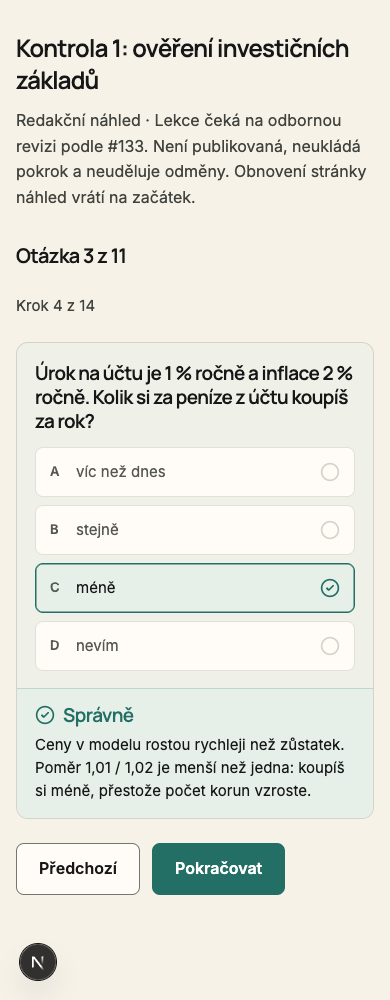
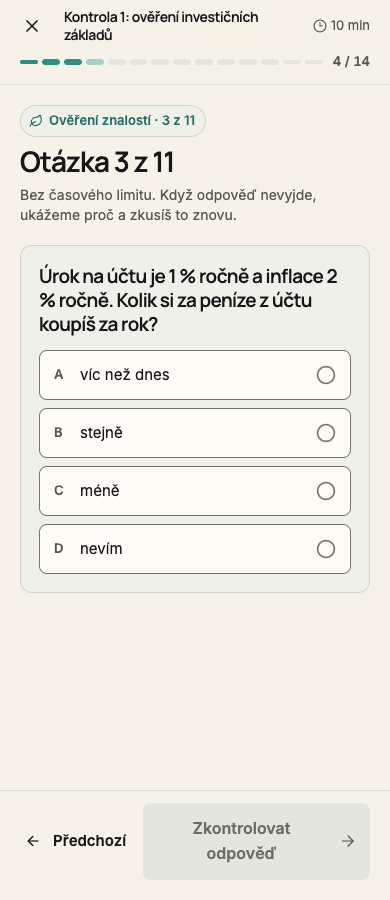
feat: publish foundations checkpoint without first-answer measurement (#164)

diff --git a/src/features/lessons/foundations/checkpoint.ts b/src/features/lessons/foundations/checkpoint.ts
@@ -34,7 +34,7 @@ export const bigThreeQuestions = [
   },
 ] satisfies LessonBlock[];
 
-/** Draft until #163, measurement capture (#130) and editorial review are ready. No public progress/rewards. */
+/** Published without first-answer measurement by founder decision on 2026-11-01 (#164); #130 adds capture later. */
 export const foundationsCheckpointLesson: AuthoredLesson = {
   id: definition.id, slug: definition.slug, moduleSlug: "investing-foundations", title: definition.title,
   eyebrow: "Investiční základy", position: 10, estimatedMinutes: definition.estimatedMinutes,
@@ -62,7 +62,7 @@ export const foundationsCheckpointLesson: AuthoredLesson = {
       correctExplanation: "Poplatek je 24 000 × 0,025 = 600 Kč. Investuje se 24 000 − 600 = 23 400 Kč. Průběžné náklady by se posuzovaly zvlášť.", incorrectExplanation: "Nejdřív spočítej 2,5 % z poslaných 24 000 Kč, potom poplatek odečti. Otázka se ptá na investovanou částku, ne samotný poplatek.", reviewHref: "/learn/investing-foundations/funds" },
     { id: "report-interpretation", type: "multipleChoiceQuestion", prompt: "Modelový příklad · Fiktivní přehled ve stylu SPIVA uvádí: 72 ze 100 aktivních fondů ve stejné kategorii za dané desetiletí zaostalo po nákladech za srovnávacím indexem. Co z toho plyne?",
       options: [{ id: "all", label: "Každý aktivní fond vždy zaostane." }, { id: "probability", label: "V tomto vzorku a období zaostala většina; neurčuje to vítěze příštího desetiletí." }, { id: "winner", label: "Stačí vybrat minulého vítěze a budoucí nadvýnos mám jistý." }], correctOptionId: "probability",
-      correctExplanation: "Jde o četnost v konkrétním vzorku, kategorii a období po nákladech, nikoli předpověď konkrétního fondu. Skutečný přehled vyžaduje kontrolu metodiky včetně zaniklých fondů. Čísla zde nejsou výsledkem skutečné studie SPIVA.", incorrectExplanation: "Výsledek skupiny v minulosti není záruka pro jednotlivý fond ani budoucí období. V tomto modelu zaostala většina, ne všechny fondy.", reviewHref: "/learn/investing-foundations/funds" },
+      correctExplanation: "Jde o četnost v konkrétním vzorku, kategorii a období po nákladech, nikoli předpověď konkrétního fondu. Skutečný přehled vyžaduje kontrolu metodiky včetně zaniklých fondů. Čísla zde nejsou výsledkem skutečné studie SPIVA.", incorrectExplanation: "Výsledek skupiny v minulosti není záruka pro jednotlivý fond ani budoucí období. V tomto modelu zaostala většina, ne všechny fondy.", reviewHref: "/learn/investing-foundations/active-vs-index" },
     { id: "reflection", type: "writtenReflection", prompt: "Vyber princip, u kterého ještě váháš. Ve 2–4 větách ho vysvětli vlastními slovy a napiš, co příště před rozhodnutím zkontroluješ. Neuváděj osobní údaje.", rubric: [{ id: "principle", text: "Vysvětlím princip i jeho omezení." }, { id: "safeguard", text: "Zvolím konkrétní kontrolu před rozhodnutím." }], sampleAnswer: "Stejný procentní pokles a růst se nevyruší, protože se mění základ. Před porovnáním výsledků spočítám násobení změn a oddělím vlastní vklady. Minulý výsledek není záruka budoucího." },
     { id: "summary", type: "lessonSummary", title: "Principy propojuj, nehádej výnos", content: "Spoj kupní sílu, složené zhodnocení, diverzifikaci, měnu a náklady do jednoho rozhodnutí. Chybná odpověď je důvod vrátit se k příslušné lekci a později si princip vybavit znovu. Samotné opravení odpovědí není důkazem dlouhodobého zvládnutí. Laboratoř zůstává cvičením; dokončení této kontroly nemění podmínky jejího odemčení." },
   ],

diff --git a/src/features/lessons/registry.ts b/src/features/lessons/registry.ts
@@ -54,9 +54,9 @@ import { readingAFeeScheduleLesson } from "./broker-and-account/reading-a-fee-sc
 
 export { emergencyFundLesson, pensionAndDipLesson };
 /** Placed, unpublished lessons awaiting expert review; never served at their public URL. */
-export const draftLessons = [foundationsCheckpointLesson, platformTypesLesson, whenToFileLesson, emergencyFundLesson, pensionAndDipLesson, scamsAndFinfluencersLesson] as const;
+export const draftLessons = [platformTypesLesson, whenToFileLesson, emergencyFundLesson, pensionAndDipLesson, scamsAndFinfluencersLesson] as const;
 
-export const authoredLessons = [financialCheckupLesson, budgetLesson, debtOrInvestLesson, goalsAndHorizonLesson, ...foundationsContent, whatIsAReturnLesson, simpleReturnsLesson, compoundingAndCumulativeReturnsLesson, comparingInvestmentsLesson, logReturnsLesson, returnsCheckpointLesson, whatIsVolatilityLesson, standardDeviationLesson, annualisingVolatilityLesson, maxDrawdownLesson, volatilityCheckpointLesson, whatIsCorrelationLesson, notCausationLesson, correlationInCrisesLesson, correlationRealDataLesson, concentrationLesson, sectorsAndCountriesLesson, etfLookThroughLesson, correlationAndRiskLesson, diversificationScenarioLesson, terAndTrackingDifferenceLesson, spreadAndTradingFeesLesson, currencyConversionLesson, costsOver30YearsLesson, compareTwoBrokersLesson, readingAFeeScheduleLesson, investmentPolicyStatementLesson, automationLesson, firstSimulatedPurchaseLesson, capstoneALesson, behaviourGapLesson, overconfidenceLesson, dispositionEffectLesson, lossAversionLesson, debiasingToolsLesson, crisisDrillLesson, etfSelectionChecklistLesson] as const;
+export const authoredLessons = [foundationsCheckpointLesson, financialCheckupLesson, budgetLesson, debtOrInvestLesson, goalsAndHorizonLesson, ...foundationsContent, whatIsAReturnLesson, simpleReturnsLesson, compoundingAndCumulativeReturnsLesson, comparingInvestmentsLesson, logReturnsLesson, returnsCheckpointLesson, whatIsVolatilityLesson, standardDeviationLesson, annualisingVolatilityLesson, maxDrawdownLesson, volatilityCheckpointLesson, whatIsCorrelationLesson, notCausationLesson, correlationInCrisesLesson, correlationRealDataLesson, concentrationLesson, sectorsAndCountriesLesson, etfLookThroughLesson, correlationAndRiskLesson, diversificationScenarioLesson, terAndTrackingDifferenceLesson, spreadAndTradingFeesLesson, currencyConversionLesson, costsOver30YearsLesson, compareTwoBrokersLesson, readingAFeeScheduleLesson, investmentPolicyStatementLesson, automationLesson, firstSimulatedPurchaseLesson, capstoneALesson, behaviourGapLesson, overconfidenceLesson, dispositionEffectLesson, lossAversionLesson, debiasingToolsLesson, crisisDrillLesson, etfSelectionChecklistLesson] as const;
 
 export function getAuthoredLesson(moduleSlug: string, lessonSlug: string) {
   return authoredLessons.find((lesson) => lesson.moduleSlug === moduleSlug && lesson.slug === lessonSlug);

diff --git a/src/features/learning/curriculum.ts b/src/features/learning/curriculum.ts
@@ -205,7 +205,7 @@ export const lessonPlacements: readonly LessonPlacement[] = [
   place("foundations-portfolio", "1.1", 7, "required", ["foundations-stocks", "foundations-etfs-indexes", "foundations-bonds-cash"], ["portfolio-weights", "diversification"]),
   place("foundations-funds", "1.1", 8, "required", ["foundations-etfs-indexes"], ["fund-types", "fund-costs"]),
   place("foundations-active-vs-index", "1.1", 9, "required", ["foundations-funds"], ["active-vs-passive", "fund-costs"]),
-  place("foundations-checkpoint", "1.1", 10, "required", ["foundations-funds", "foundations-bonds-cash", "foundations-markets", "foundations-risk-reward", "foundations-portfolio"], ["compounding", "inflation", "diversification", "position-value", "index-vs-fund", "bonds-and-cash", "bid-ask-spread", "portfolio-weights", "fund-costs"]),
+  place("foundations-checkpoint", "1.1", 10, "required", ["foundations-active-vs-index", "foundations-bonds-cash", "foundations-markets", "foundations-risk-reward", "foundations-portfolio"], ["compounding", "inflation", "diversification", "position-value", "index-vs-fund", "bonds-and-cash", "bid-ask-spread", "portfolio-weights", "fund-costs", "active-vs-passive"]),
 
   place("returns-what-is-a-return", "3.1", 1, "required", ["foundations-risk-reward"], ["simple-return"]),
   place("returns-simple-returns", "3.1", 2, "required", ["returns-what-is-a-return"], ["simple-return"]),
@@ -272,6 +272,10 @@ export const skillItems: readonly SkillItem[] = [
   item("foundations-funds", "mastery-regular-fee", "fund-costs"),
   item("foundations-active-vs-index", "mastery-arithmetic", "active-vs-passive"),
   item("foundations-active-vs-index", "mastery-index-risk", "active-vs-passive"),
+  item("foundations-checkpoint", "big-three-compounding", "compounding"),
+  item("foundations-checkpoint", "big-three-inflation", "inflation"),
+  item("foundations-checkpoint", "big-three-diversification", "diversification"),
+  item("foundations-checkpoint", "report-interpretation", "active-vs-passive"),
   item("costs-spread-and-fees", "recall", "trade-costs"),
   item("costs-currency-conversion", "recall", "currency-risk"),
   item("costs-over-30-years", "recall", "cost-drag"),

diff --git a/src/features/lessons/foundations/checkpoint.test.ts b/src/features/lessons/foundations/checkpoint.test.ts
@@ -14,14 +14,16 @@ import { progressionUnlocks } from "@/features/progression/unlocks";
 const steps = getGuidedSteps(lesson);
 
 describe("Foundations checkpoint 1.1.10 (#164)", () => {
-  it("reserves identity and placement without publishing ahead of #163/#130 and review", () => {
-    expect(curriculumLessons.find((entry) => entry.id === lesson.id)).toMatchObject({ id: "foundations-checkpoint", moduleId: "module-investing-foundations", moduleSlug: "investing-foundations", slug: "foundations-checkpoint", status: "planned" });
-    expect(draftLessons).toContain(lesson);
-    expect(authoredLessons).not.toContain(lesson);
-    expect(availableLessons.some((entry) => entry.id === lesson.id)).toBe(false);
-    expect(getAuthoredLesson(lesson.moduleSlug, lesson.slug)).toBeUndefined();
+  it("publishes the stable identity without changing rewards or Lab prerequisites", () => {
+    expect(curriculumLessons.find((entry) => entry.id === lesson.id)).toMatchObject({ id: "foundations-checkpoint", moduleId: "module-investing-foundations", moduleSlug: "investing-foundations", slug: "foundations-checkpoint", status: "available" });
+    expect(draftLessons).not.toContain(lesson);
+    expect(authoredLessons).toContain(lesson);
+    expect(availableLessons.some((entry) => entry.id === lesson.id)).toBe(true);
+    expect(getAuthoredLesson(lesson.moduleSlug, lesson.slug)).toBe(lesson);
     expect(getLessonPlacement(lesson.id)).toMatchObject({ displayCode: "1.1.10", required: "required" });
-    expect(() => validateMove(lesson.id, 0, 1)).toThrow(/unavailable/);
+    expect(getLessonPlacement(lesson.id)?.prerequisites).toContain("foundations-active-vs-index");
+    expect(block(lesson, "report-interpretation", "multipleChoiceQuestion").reviewHref).toBe("/learn/investing-foundations/active-vs-index");
+    expect(() => validateMove(lesson.id, 0, 1)).not.toThrow();
     expect(lessonReward(lesson.id)).toEqual({ practiceCapitalMinor: 0n, rewardPolicyVersion: 4 });
     expect(progressionUnlocks.PORTFOLIO_LAB.prerequisiteLessonIds).not.toContain(lesson.id);
     expect(progressionUnlocks.PORTFOLIO_LAB.prerequisiteLessonIds).toHaveLength(7);

diff --git a/src/features/learning/catalog.test.ts b/src/features/learning/catalog.test.ts
@@ -1,6 +1,6 @@
 import { describe, expect, it } from "vitest";
 import { getModuleBySlug, getModulePath, lessonLink, moduleCatalog } from "./catalog";
-import { foundationsLessons } from "../lessons/foundations/manifest";
+import { brokerAndAccountLessons } from "../lessons/broker-and-account/manifest";
 import { returnsLessons } from "../lessons/returns/manifest";
 
 describe("module catalog", () => {
@@ -19,7 +19,8 @@ describe("module catalog", () => {
   it("builds Lab lesson links from the curriculum and never links an unpublished lesson", () => {
     expect(lessonLink("diversification-sectors-countries")).toEqual({ href: "/learn/diversification/sectors-and-countries", label: "Lekce: Sektory a země" });
     expect(lessonLink("diversification-correlation-risk")?.href).toBe("/learn/diversification/correlation-and-portfolio-risk");
-    expect(lessonLink("foundations-checkpoint")).toBeNull();
+    expect(lessonLink("foundations-checkpoint")?.href).toBe("/learn/investing-foundations/foundations-checkpoint");
+    expect(lessonLink("broker-platform-types")).toBeNull();
     expect(lessonLink("unknown")).toBeNull();
   });
 });
@@ -33,9 +34,9 @@ describe("persisted Returns path", () => {
     expect(items.map((item) => item.state)).toEqual(["completed", "available", "active", "available", "available", "available"]);
   });
   it("never unlocks an unimplemented lesson from a stray progress row", () => {
-    const planned = foundationsLessons.filter((lesson) => lesson.status === "planned");
+    const planned = brokerAndAccountLessons.filter((lesson) => lesson.status === "planned");
     expect(planned.length).toBeGreaterThan(0);
-    const path = getModulePath("investing-foundations", planned.map((lesson) => ({ lessonId: lesson.id, status: "completed" })));
+    const path = getModulePath("broker-and-account", planned.map((lesson) => ({ lessonId: lesson.id, status: "completed" })));
     expect(path.filter((item) => planned.some((lesson) => lesson.id === item.id)).map((item) => item.state)).toEqual(["locked"]);
   });
 });

diff --git a/src/components/progress/progress-model.test.tsx b/src/components/progress/progress-model.test.tsx
@@ -73,7 +73,7 @@ describe("Progress presentation model", () => {
         expect(idea.title).not.toMatch(/^Shrnutí/);
       }
     }
-    expect(model.chapters[0].lessons.map((lesson) => lesson.status)).toEqual(["done", "done", "done", "todo", "active", "todo", "todo", "todo", "todo"]);
+    expect(model.chapters[0].lessons.map((lesson) => lesson.status)).toEqual(["done", "done", "done", "todo", "active", "todo", "todo", "todo", "todo", "todo"]);
     expect(model.chapters[0].status).toBe("started");
     expect(model.milestone).toBeUndefined();
     const html = render(states);
@@ -103,7 +103,7 @@ describe("Progress presentation model", () => {
     const model = progressModel(learner(states));
     expect(model.milestone?.chapter.slug).toBe("investing-foundations");
     expect(model.milestone?.nextChapter.slug).toBe("returns");
-    expect(model.milestone?.completedAt).toEqual(day(9));
+    expect(model.milestone?.completedAt).toEqual(day(foundations.length));
     const html = render(states, { portfolio: ledger });
     expect(html).toContain("Kapitola 01 hotová");
     expect(html).toContain("Základy investování máš za sebou.");
@@ -111,8 +111,8 @@ describe("Progress presentation model", () => {
     expect(html).toContain("jak poznat, jestli se investici daří?");
     expect(html).toContain('href="/learn/returns/what-is-a-return"');
     expect(html).toContain("Začít lekcí Co je výnos?");
-    expect(html).toContain(`data-testid="available-progress">9 / ${availableLessons.length}<`);
-    expect(html).toContain("540 XP");
+    expect(html).toContain(`data-testid="available-progress">${foundations.length} / ${availableLessons.length}<`);
+    expect(html).toContain(`${foundations.length * 60} XP`);
     expect(html).not.toContain("ročním nákladům fondu");
     // Starting the next chapter ends the milestone.
     expect(progressModel(learner([...states, started(returns[0].id, 1)])).milestone).toBeUndefined();

diff --git a/src/components/marketing/pen-landing.tsx b/src/components/marketing/pen-landing.tsx
@@ -16,7 +16,7 @@ import { Wordmark } from "@/components/brand/wordmark";
  */
 const path: readonly { title: string; detail: string; status: string; state: "next" | "open" | "planned" }[] = [
   { title: "0 · Než začneš investovat", detail: "Rozpočet, drahý dluh, cíle a horizont, finanční check-up. Rezervu, penzijko s DIP a podvody připravujeme.", status: "Doporučený začátek", state: "next" },
-  { title: "1 · Jak investice fungují", detail: "Akcie, dluhopisy, ETF a indexy, fondy a jejich náklady, aktivní a indexové investování. Závěrečnou kontrolu připravujeme.", status: "Dostupné", state: "open" },
+  { title: "1 · Jak investice fungují", detail: "Akcie, dluhopisy, ETF a indexy, fondy a jejich náklady, aktivní a indexové investování. Závěrečná kontrola propojí principy ve smíšených úlohách.", status: "Dostupné", state: "open" },
   { title: "2 · Investování v Česku v praxi", detail: "Náklady fondu i obchodu: TER, rozdíl vůči indexu, spread, minimální poplatek, čtení ceníku brokera, měnová konverze, dopad nákladů za 30 let, srovnání dvou brokerů pro vlastní plán, checklist výběru ETF, sepsání investičního plánu (IPS), pravidelná investice nastavená předem, první nákup nanečisto a závěrečný projekt milníku A s rubrikou. Brokera a účet, další náklady, produkty v EU a české daně připravujeme.", status: "Jedenáct lekcí dostupných", state: "open" },
   { title: "Vlastní investiční plán (IPS)", detail: "Cíle, rozložení, pravidelné vklady a pravidlo pro propad zapíšeš v Labu.", status: "Dostupné v Labu", state: "open" },
   { title: "Krizový nácvik", detail: "Modelovou krizí projdeš měsíc po měsíci bez skutečných peněz a ověříš, jestli se držíš svého plánu.", status: "Dostupné v Labu", state: "open" },

diff --git a/src/features/personalization/recommendation.snapshot.test.ts b/src/features/personalization/recommendation.snapshot.test.ts
@@ -6,7 +6,7 @@ import { recommendLearning } from "./recommendation";
 import { diagnosticWithCorrectCount } from "./test-fixtures";
 
 // Freeze the pre-0.1.1 inventory: this snapshot protects legacy sequencing, not catalog size.
-const laterLessons = new Set(["foundations-funds", "foundations-active-vs-index", "costs-ter-tracking-difference", "costs-spread-and-fees", "broker-fee-schedule", "costs-currency-conversion", "costs-over-30-years", "costs-broker-comparison", "first-plan-ips", "first-plan-automation", "first-plan-first-purchase", "behaviour-behaviour-gap", "behaviour-overconfidence", "behaviour-disposition-effect", "behaviour-loss-aversion", "behaviour-debiasing-tools", "behaviour-crisis-drill", "first-plan-capstone-a", "etfs-selection-checklist"]);
+const laterLessons = new Set(["foundations-checkpoint", "foundations-funds", "foundations-active-vs-index", "costs-ter-tracking-difference", "costs-spread-and-fees", "broker-fee-schedule", "costs-currency-conversion", "costs-over-30-years", "costs-broker-comparison", "first-plan-ips", "first-plan-automation", "first-plan-first-purchase", "behaviour-behaviour-gap", "behaviour-overconfidence", "behaviour-disposition-effect", "behaviour-loss-aversion", "behaviour-debiasing-tools", "behaviour-crisis-drill", "first-plan-capstone-a", "etfs-selection-checklist"]);
 const legacyCurriculum = availableLessons.filter((lesson) => lesson.moduleSlug !== "before-investing" && !laterLessons.has(lesson.id));
 
 /** Deterministic pseudo-random subsets, so the snapshot covers out-of-order progress too. */

diff --git a/src/features/lessons/steps.test.ts b/src/features/lessons/steps.test.ts
@@ -9,7 +9,7 @@ describe("shared guided lessons", () => {
     const steps = getGuidedSteps(lesson);
     // The first Foundations lesson is the deliberately short mini-lesson that also opens onboarding.
     expect(steps.length).toBeGreaterThanOrEqual(lesson.id === "foundations-why-invest" ? 3 : 6);
-    expect(steps.length).toBeLessThanOrEqual(12);
+    expect(steps.length).toBeLessThanOrEqual(lesson.id === "foundations-checkpoint" ? 14 : 12);
     expect(new Set(lesson.blocks.map((block) => block.id)).size).toBe(lesson.blocks.length);
     expect(steps.flatMap((step) => step.blocks)).toEqual(lesson.blocks);
     for (const step of steps) {
@@ -22,7 +22,7 @@ describe("shared guided lessons", () => {
   it("only removes navigation for implemented lessons", () => {
     for (const lesson of authoredLessons) expect(isFocusedLesson(`/learn/${lesson.moduleSlug}/${lesson.slug}`)).toBe(true);
     expect(isFocusedLesson("/learn/checkpoint/1.1")).toBe(true);
-    for (const route of ["/dashboard", "/learn", "/learn/returns", "/progress", "/learn/investing-foundations/foundations-checkpoint"]) expect(isFocusedLesson(route)).toBe(false);
+    for (const route of ["/dashboard", "/learn", "/learn/returns", "/progress"]) expect(isFocusedLesson(route)).toBe(false);
     expect(() => getStepDefinitions("returns-log")).toThrow();
     expect(() => getStepDefinitions("constructor")).toThrow();
   });

diff --git a/src/features/lessons/foundations/manifest.ts b/src/features/lessons/foundations/manifest.ts
@@ -10,5 +10,5 @@ export const foundationsLessons = [
   { id: "foundations-portfolio", slug: "your-first-portfolio", title: "Portfolio, váhy a diverzifikace", summary: "Spoj hotovost a pozice, spočítej váhy a odhal koncentraci.", estimatedMinutes: 10, status: "available" },
   { id: "foundations-funds", slug: "funds", title: "Podílové fondy, ETF a jejich náklady", summary: "Rozliš podílový fond a ETF, aktivní a pasivní správu a spočítej, co stojí náklady.", estimatedMinutes: 12, status: "available" },
   { id: "foundations-active-vs-index", slug: "active-vs-index", title: "Kdo vyhrává: aktivní správa vs. index", summary: "Přečti data SPIVA, spočítej, co berou náklady, a zjisti, proč je levný indexový fond rozumné výchozí jádro.", estimatedMinutes: 11, status: "available" },
-  { id: "foundations-checkpoint", slug: "foundations-checkpoint", title: "Kontrola 1: ověření investičních základů", summary: "Propoj investiční principy v otázkách Big Three a smíšených úlohách.", estimatedMinutes: 10, status: "planned" },
+  { id: "foundations-checkpoint", slug: "foundations-checkpoint", title: "Kontrola 1: ověření investičních základů", summary: "Propoj investiční principy v otázkách Big Three a smíšených úlohách.", estimatedMinutes: 10, status: "available" },
 ] as const;

diff --git a/src/components/marketing/landing-inventory.test.ts b/src/components/marketing/landing-inventory.test.ts
@@ -11,9 +11,9 @@ describe("landing page inventory", () => {
     expect(placed("2.").filter((id) => published.has(id))).toEqual(["broker-fee-schedule", "costs-spread-and-fees", "costs-currency-conversion", "costs-over-30-years", "costs-broker-comparison", "costs-ter-tracking-difference", "etfs-selection-checklist", "first-plan-ips", "first-plan-automation", "first-plan-first-purchase", "first-plan-capstone-a"]);
   });
 
-  it("still lists the reserve, pension, scams and foundations checkpoint lessons as drafts", () => {
+  it("still lists the reserve, pension and scams lessons as drafts", () => {
     const drafts = new Set<string>(draftLessons.map((lesson) => lesson.id));
-    for (const id of ["before-investing-emergency-fund", "before-investing-retirement-products", "before-investing-scams", "foundations-checkpoint"]) {
+    for (const id of ["before-investing-emergency-fund", "before-investing-retirement-products", "before-investing-scams"]) {
       expect(drafts.has(id)).toBe(true);
       expect(published.has(id)).toBe(false);
     }

diff --git a/src/features/lessons/foundations/portfolio-content.test.ts b/src/features/lessons/foundations/portfolio-content.test.ts
@@ -1,12 +1,13 @@
 import { describe, expect, it } from "vitest";
 import { foundationsContent, foundationsSteps } from "./content";
+import { foundationsCheckpointLesson } from "./checkpoint";
 import { foundationsLessons } from "./manifest";
 import { getGuidedSteps } from "../steps";
 import { validateCompletion, validateMove } from "@/features/progress/transition";
 
 describe("Foundations learning experience integrity", () => {
   it("keeps the stable published lesson IDs and the target sequence", () => {
-    expect(foundationsContent.map((lesson) => lesson.id)).toEqual(foundationsLessons.filter((lesson) => lesson.status === "available").map((lesson) => lesson.id));
+    expect([...foundationsContent, foundationsCheckpointLesson].map((lesson) => lesson.id)).toEqual(foundationsLessons.filter((lesson) => lesson.status === "available").map((lesson) => lesson.id));
     expect(foundationsContent.map((lesson) => lesson.title)).toEqual([
       "Spoření vs. investování",
       "Akcie a vlastnictví firmy",
